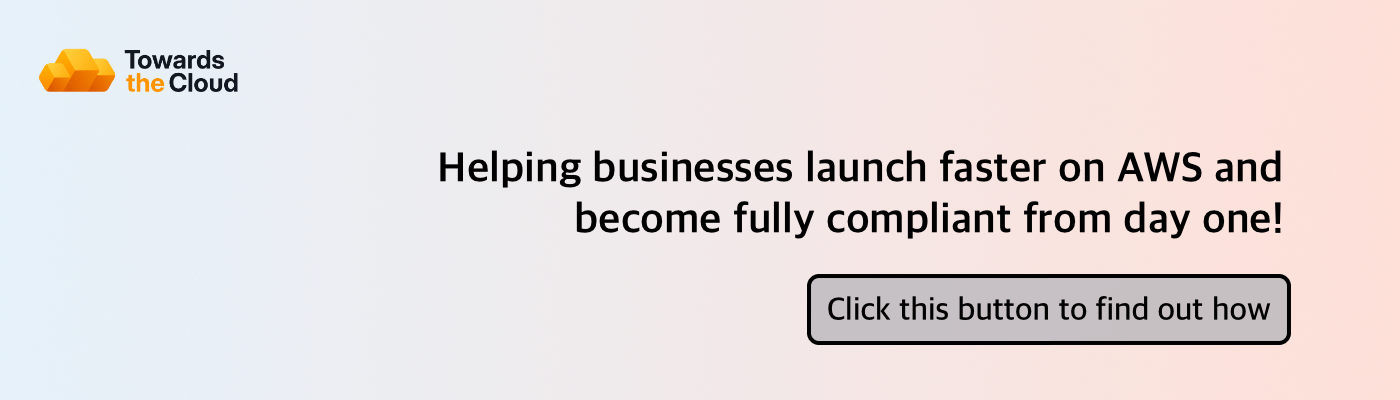
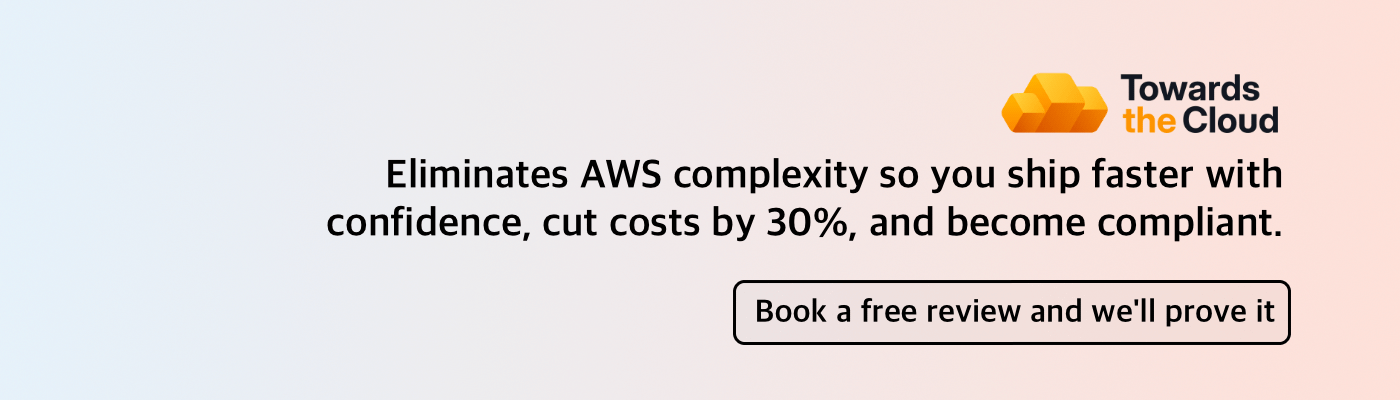
docs: Revise README content for clarity and update header image

diff --git a/README.md b/README.md
@@ -1,55 +1,44 @@
 # [![Danny Steenman header](./image/github-title-banner.png)](https://towardsthecloud.com)
 
-Hi, I’m Danny! AWS Cloud expert and founder of my AWS Consultancy: [Towards the Cloud](https://towardsthecloud.com). specialized in shipping well-architected, resilient, and cost-optimized AWS solutions designed to scale for startups and growing businesses.
+Hi, I'm Danny! AWS Cloud expert and founder of my AWS Consultancy: [Towards the Cloud](https://towardsthecloud.com). specialized in shipping well-architected, resilient, and cost-optimized AWS solutions designed to scale for startups and growing businesses.
 
 > [!TIP]
-> **AWS Done Right: Ship Faster, More Securely, at Lower Cost!** Our [AWS CDK Landing Zone Service](https://towardsthecloud.com) helps B2B startups & enterprises achieve SOC 2 compliance 90% faster, reclaim 30% of developer capacity for product innovation while eliminating six-figure Cloud Engineering costs.
+> **[Towards the Cloud](https://towardsthecloud.com/about) eliminates AWS complexity so you ship faster with confidence, cut costs by 30%, and become compliant.**
 >
-> Discover how we deliver 10x AWS infrastructure value while cutting costs.
+> Sounds too good to be true? We'll assess your AWS account for free and report exactly where you stand. You'll receive a report with security findings and cost optimization opportunities. After that you can decide whether to fix these findings yourself or let us handle it. No strings attached.
 >
-> <a href="https://towardsthecloud.com/contact"><img alt="Book your free intro call" src="https://img.shields.io/badge/book%20your%20free%20intro%20call-success.svg?style=for-the-badge"/></a>
+> <a href="https://cal.com/towardsthecloud/aws-account-review"><img alt="Book a Free AWS Account Review" src="https://img.shields.io/badge/Book%20A%20Free%20AWS%20Account%20Review-success.svg?style=for-the-badge"/></a>
 >
-> <details><summary>☁ <strong>Learn more how we help businesses succeed on AWS Cloud...</strong></summary>
+> <details>
+> <summary>☁ <strong>Discover how we cut AWS costs by 30% and accelerate SOC 2 compliance...</strong></summary>
+> <br/>
 >
-><br/>
+> ### AWS complexity builds faster than you realize
 >
-> AWS promises simplicity but delivers complexity. Businesses struggle with security risks and compliance requirements that divert developers from core product work.
+> What starts as simple deployment quickly spirals into inefficient architectures costing 40-60% more than needed, security blind spots risking customer data, and team burnout from operations instead of product development.
 >
-> Without AWS expertise, you face vulnerabilities, technical debt, and market delays while competitors race ahead.
+> **Traditional consultancies prioritize billable hours over outcomes, then disappear after setup. We do the opposite...**
 >
-> Traditional consultancies worsen this by prioritizing billable hours over outcomes.
+> ---
 >
-> We take the opposite approach, focusing exclusively on business outcomes by eliminating AWS complexity, accelerating your developers, and securing your infrastructure through:
+> ### We provide an AWS foundation so you deploy with confidence
 >
-> ### Deploying a [Secure Landing Zone](https://towardsthecloud.com/services/aws-landing-zone)
-> - Multi-account architecture with strict security boundaries
->   - **100% score** on [CIS AWS Foundation Benchmark](https://docs.aws.amazon.com/securityhub/latest/userguide/cis-aws-foundations-benchmark.html)
->   - **96% rating** on [AWS foundational security best practices](https://docs.aws.amazon.com/securityhub/latest/userguide/fsbp-standard.html)
-> - Manage user access securely on AWS via Single Sign-On (SSO)
-> - Full AWS CDK implementation (Infrastructure as Code)
-> - Multi-region deployments supported
-> - Cross-account monitoring and security alerts
-> - View our [Roadmap](https://github.com/towardsthecloud/aws-cdk-landing-zone-roadmap) for all implemented and upcoming features
+> - ✅ **Compliant multi-account landing zone**: 100% CIS benchmark compliance with full IaC from day one
+> - ✅ **Off-the-shelf CDK components**: Develop quicker without reinventing the wheel
+> - ✅ **Complete CI/CD with easy rollbacks**: Deploy more frequently because of IaC safety
+> - ✅ **Quarterly optimization**: Automatic security updates and cost + security reviews
 >
-> ### Upskilling and accelerating your developers
-> - They get access to our production-ready, security-hardened AWS CDK components
-> - They receive AWS best practices guidance to prevent technical debt
+> ---
 >
-> ### Providing support and maintenance
-> - Landing Zone gets updates and security patches
-> - Priority Slack/Teams support for infrastructure challenges
-> - Quarterly [security](https://towardsthecloud.com/services/aws-security-review) and [cost optimization](https://towardsthecloud.com/services/aws-cost-optimization) assessments to stay compliant and reduce AWS costs
+> ### Results: Partner with us to save costs and become compliant
+> - **30% cost reduction** ([up to 60% documented](https://towardsthecloud.com/services/aws-cost-optimization#case-study))
+> - **Automatic SOC 2/HIPAA compliance** - no audit surprises
+> - **Fractional cloud engineer** via [flexible monthly retainer](https://towardsthecloud.com/pricing)
 >
-> ## What This Means For Your Business
-> - **30% Lower TCO**: Cut Total Cost by 40% through right-sized resources while eliminating the $150K+ cost of a specialized AWS hire.
-> - **Accelerate Development**: Redirect 30% of engineering time from infrastructure to revenue-generating features with pre-built, compliant CDK components.
-> - **Compliance-Ready Infrastructure**: Meet security requirements from day one with architecture that [speeds up audit preparation by 90%](https://towardsthecloud.com/blog/aws-landing-zone-case-study-accolade) for SOC 2, HIPAA, and other security frameworks.
+> **Proof:** Y Combinator startup Accolade's founder on how our landing zone [accelerated their SOC 2 certification](https://towardsthecloud.com/blog/aws-landing-zone-case-study-accolade):
 >
-> All of this is included in a [fixed monthly subscription](https://towardsthecloud.com/pricing). No lock-in, no large upfront costs, just predictable monthly pricing.
+> *"Danny's solution and AWS expertise stood out with comprehensive accelerators, documentation, and clearly articulated design principles. **We achieved a perfect security score in days, not months.**"* — Galen Simmons, CEO
 >
-> Book a free call to see how we deliver 10x AWS infrastructure value at a fraction of a Cloud Engineer's cost.
->
-> <a href="https://towardsthecloud.com/contact"><img alt="Book your free introduction call" src="https://img.shields.io/badge/book%20your%20free%20introduction%20call-success.svg?style=for-the-badge"/></a>
 > </details>
 
 
@@ -86,6 +75,7 @@ Hi, I’m Danny! AWS Cloud expert and founder of my AWS Consultancy: [Towards th
 | [VSCode SAM Snippets](https://github.com/towardsthecloud/vscode-sam-snippets)                                     | [![Stars](https://img.shields.io/github/stars/dannysteenman/vscode-sam-snippets)](https://github.com/towardsthecloud/vscode-sam-snippets/stargazers)                                     | [![Forks](https://img.shields.io/github/forks/dannysteenman/vscode-sam-snippets)](https://github.com/towardsthecloud/vscode-sam-snippets/network/members)                                     | [![Issues](https://img.shields.io/github/issues/dannysteenman/vscode-sam-snippets)](https://github.com/towardsthecloud/vscode-sam-snippets/issues)                                     | [![Pull requests](https://img.shields.io/github/issues-pr/dannysteenman/vscode-sam-snippets)](https://github.com/towardsthecloud/vscode-sam-snippets/pulls)                                     |
 | [VSCode CDK Extension Pack](https://github.com/towardsthecloud/vscode-cdk-extension-pack )                        | [![Stars](https://img.shields.io/github/stars/dannysteenman/vscode-cdk-extension-pack)](https://github.com/towardsthecloud/vscode-cdk-extension-pack/stargazers)                         | [![Forks](https://img.shields.io/github/forks/dannysteenman/vscode-cdk-extension-pack)](https://github.com/towardsthecloud/vscode-cdk-extension-pack/network/members)                         | [![Issues](https://img.shields.io/github/issues/dannysteenman/vscode-cdk-extension-pack)](https://github.com/towardsthecloud/vscode-cdk-extension-pack/issues)                         | [![Pull requests](https://img.shields.io/github/issues-pr/dannysteenman/vscode-cdk-extension-pack)](https://github.com/towardsthecloud/vscode-cdk-extension-pack/pulls)                         |
 | [VSCode CloudFormation Extension Pack](https://github.com/towardsthecloud/vscode-cloudformation-extension-pack )  | [![Stars](https://img.shields.io/github/stars/dannysteenman/vscode-cloudformation-extension-pack)](https://github.com/towardsthecloud/vscode-cloudformation-extension-pack/stargazers)   | [![Forks](https://img.shields.io/github/forks/dannysteenman/vscode-cloudformation-extension-pack)](https://github.com/towardsthecloud/vscode-cloudformation-extension-pack/network/members)   | [![Issues](https://img.shields.io/github/issues/dannysteenman/vscode-cloudformation-extension-pack)](https://github.com/towardsthecloud/vscode-cloudformation-extension-pack/issues)   | [![Pull requests](https://img.shields.io/github/issues-pr/dannysteenman/vscode-cloudformation-extension-pack)](https://github.com/towardsthecloud/vscode-cloudformation-extension-pack/pulls)   |
+| [VSCode Terraform Extension Pack](https://github.com/towardsthecloud/vscode-terraform-extension-pack)             | [![Stars](https://img.shields.io/github/stars/dannysteenman/vscode-terraform-extension-pack)](https://github.com/towardsthecloud/vscode-terraform-extension-pack/stargazers)             | [![Forks](https://img.shields.io/github/forks/dannysteenman/vscode-terraform-extension-pack)](https://github.com/towardsthecloud/vscode-terraform-extension-pack/network/members)             | [![Issues](https://img.shields.io/github/issues/dannysteenman/vscode-terraform-extension-pack)](https://github.com/towardsthecloud/vscode-terraform-extension-pack/issues)             | [![Pull requests](https://img.shields.io/github/issues-pr/dannysteenman/vscode-terraform-extension-pack)](https://github.com/towardsthecloud/vscode-terraform-extension-pack/pulls)             |
 
 ## 📙 My Latest Blog Articles
 
